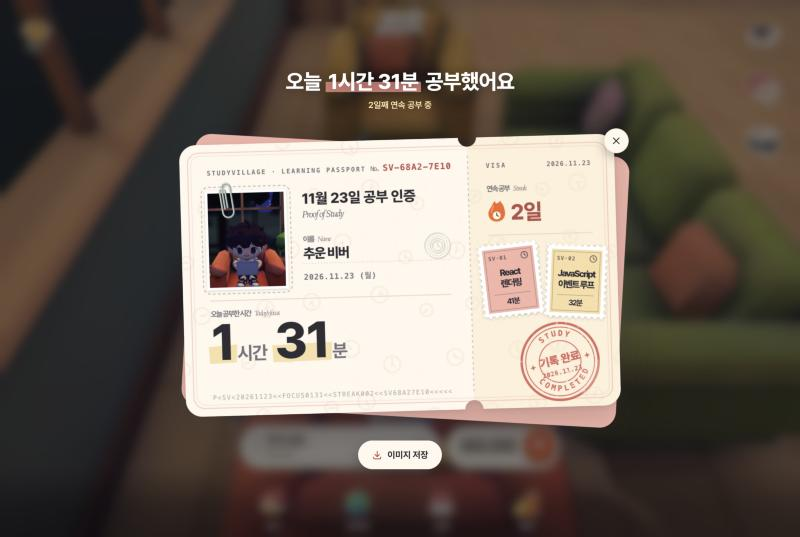
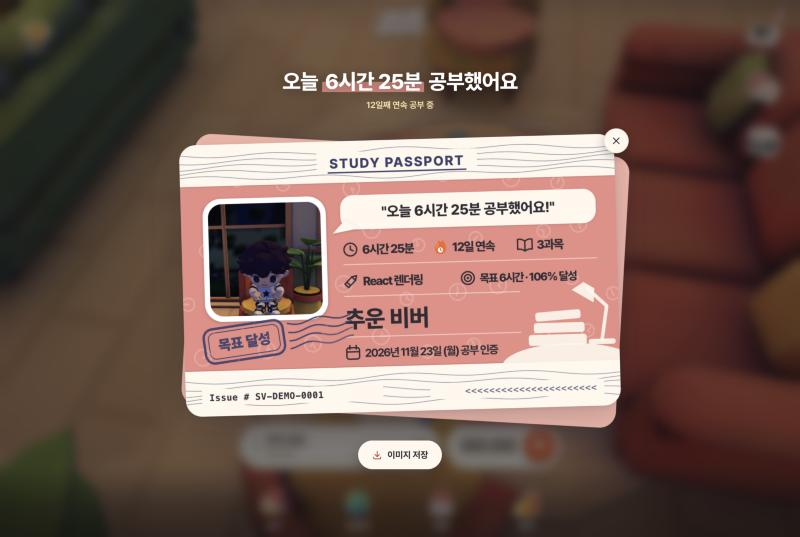
feat(web/study): add dev-only URLs that always show the study card
In dev builds, /?recap=goal, /?recap=more and /?recap=plain open the
study card with sample values once the 3D room is drawn, so the card can
be checked without finishing a session. Production builds ignore the
parameter (import.meta.env.DEV).

diff --git a/frontend/src/feature/study/recap/useRecapDemo.ts b/frontend/src/feature/study/recap/useRecapDemo.ts
@@ -1,0 +1,55 @@
+// 개발 전용: 공부를 끝내지 않고도 공부 인증 카드를 늘 띄워 보는 주소.
+//   /?recap=goal   목표 달성(목표 대비 %, "목표 달성" 소인, 연속 12일, 과목 3개)
+//   /?recap=more   목표 없음, 어제보다 더 함("어제보다 +n")
+//   /?recap=plain  목표 없음, 어제보다 적음, 연속 0일, 과목 없음 기록 하나
+// 값은 화면 확인용 표본이다(서버 값 아님). 운영 빌드(import.meta.env.DEV가 false)에서는 아무 일도 하지 않는다.
+// 사진은 3D 방이 그려진 뒤 실제로 찍는다(방이 준비될 때까지 기다린다).
+import { useEffect } from 'react'
+import { logger } from '../../../core/log/log'
+import { takeRoomSnapshot } from '../room3d/roomSnapshot'
+import { photoSlot } from './passportDraw'
+import type { StudyRecap } from './studyRecap'
+
+const log = logger('RecapDemo')
+
+type Variant = 'goal' | 'more' | 'plain'
+const variants: readonly Variant[] = ['goal', 'more', 'plain']
+
+function sample(variant: Variant, nickname: string, photo: HTMLCanvasElement | null): StudyRecap {
+  const today = new Date()
+  const studyDate = `${today.getFullYear()}-${String(today.getMonth() + 1).padStart(2, '0')}-${String(today.getDate()).padStart(2, '0')}`
+  const base = { nickname, studyDate, serial: 'SV-DEMO-0001', sessionSeconds: 5400, photo }
+  switch (variant) {
+    case 'goal':
+      return { ...base, todaySeconds: 6 * 3600 + 25 * 60, yesterdaySeconds: 4 * 3600, goalSeconds: 6 * 3600, streakDays: 12,
+        subjects: [{ subject: 'React 렌더링', seconds: 9600 }, { subject: 'JavaScript 이벤트 루프', seconds: 8100 }, { subject: '브라우저 렌더링 파이프라인', seconds: 5400 }] }
+    case 'more':
+      return { ...base, todaySeconds: 3 * 3600 + 10 * 60, yesterdaySeconds: 2 * 3600, goalSeconds: null, streakDays: 3,
+        subjects: [{ subject: '수학', seconds: 7200 }, { subject: '영어', seconds: 4200 }] }
+    case 'plain':
+      return { ...base, todaySeconds: 25 * 60, yesterdaySeconds: 3600, goalSeconds: null, streakDays: 0, subjects: [{ subject: null, seconds: 1500 }] }
+  }
+}
+
+/** 주소에 ?recap=…가 있으면 방이 준비된 뒤 표본 카드를 띄운다. */
+export function useRecapDemo(nickname: string | null, show: (recap: StudyRecap) => void): void {
+  useEffect(() => {
+    if (!import.meta.env.DEV || nickname == null) return
+    const value = new URLSearchParams(window.location.search).get('recap')
+    if (value == null) return
+    if (!variants.includes(value as Variant)) { log.warn('unknown recap demo', { value, known: variants.join('|') }); return }
+    const variant = value as Variant
+    const started = performance.now()
+    let timer = 0
+    const tryShow = () => {
+      const photo = takeRoomSnapshot(photoSlot.width * 2, photoSlot.height * 2)
+      // 방이 아직 안 그려졌으면 최대 15초까지 기다리고, 그래도 없으면 사진 칸 없이 띄운다.
+      if (!photo && performance.now() - started < 15_000) { timer = window.setTimeout(tryShow, 300); return }
+      log.debug('recap demo shown', { variant, photo: photo != null, elapsed_ms: Math.round(performance.now() - started) })
+      show(sample(variant, nickname, photo))
+    }
+    // 방이 막 그려진 순간엔 캐릭터가 아직 자리에 없을 수 있어 첫 촬영은 조금 늦춘다.
+    timer = window.setTimeout(tryShow, 2500)
+    return () => window.clearTimeout(timer)
+  }, [nickname, show])
+}

diff --git a/frontend/src/feature/study/shell/StudyHomePage.tsx b/frontend/src/feature/study/shell/StudyHomePage.tsx
@@ -20,6 +20,7 @@ import { useEffect, useRef, useState } from 'react'
 import { useSubjectEditor } from '../subject/useSubjectEditor'
 import { ChatSheet } from '../chat/ChatSheet'
 import { StudyRecapModal } from '../recap/StudyRecapModal'
+import { useRecapDemo } from '../recap/useRecapDemo'
 import { chatStore, useChat } from '../chat/chatStore'
 import s from './StudyHomePage.module.css'
 
@@ -41,6 +42,8 @@ export function StudyHomePage({ tab }: { tab: StudyTab }) {
   // 원본 기본 시점(initialRoomCamera = thirdPerson). 누를 때마다 다음 시점, 이름은 1600ms.
   const camera = useStudyCameraCycle('thirdPerson')
   const timer = useStudyTimer(state.status === 'signedIn' ? state.me.profile.nickname : null)
+  // 개발 전용: /?recap=goal|more|plain 으로 공부 인증 카드를 늘 띄워 본다(useRecapDemo).
+  useRecapDemo(tab === 'study' && state.status === 'signedIn' ? state.me.profile.nickname : null, timer.showRecap)
   const subjects = useSubjectEditor({ onManage: () => navigate('/subjects') })
   const chat = useChat()
   const [chatOpen, setChatOpen] = useState(false)

diff --git a/frontend/src/feature/study/timer/useStudyTimer.tsx b/frontend/src/feature/study/timer/useStudyTimer.tsx
@@ -111,5 +111,5 @@ export function useStudyTimer(nickname: string | null) {
     } catch (e) { failed(e) }
   }
 
-  return { view, onTogglePause, onFinish, recap, closeRecap: () => setRecap(null) }
+  return { view, onTogglePause, onFinish, recap, showRecap: setRecap, closeRecap: () => setRecap(null) }
 }

diff --git a/docs/design-parity/exceptions.md b/docs/design-parity/exceptions.md
@@ -22,6 +22,6 @@
 - **3D 방 부드러운 룩(기본)**: 셀 셰이딩 단 대신 넓은 감싸기 조명(빛 쪽 크림·그늘 쪽 라벤더)과 반구 조명, 화면 공간 접촉 그늘(½ 해상도 8탭, 높은 단계만), 그 자리 색을 어둡게 한 외곽선, 파스텔 보정(생기·부드러운 어깨·분할 톤). 예전 카툰 룩은 `?look=toon`, 앱 그림은 `?look=app`. 비교: `room_v2/soft_look_vs_toon.jpg`. 감성 보강(같은 날): 창밖 하늘에서 모은 빛줄기(½ 해상도 40탭, 높은 단계만), 먼 곳 공기 원근(위 하늘빛·아래 크림), 살구빛 할레이션, 오른쪽 위 빛샘, 비네트 0.18. `room_v2/mood_pass.jpg`(이전 / 오후 16시 / 밤). 개발 빌드는 `?hour=16`으로 시각을 고정해 본다. 사용자 결정(2026-11-23 "셰이더 대격변").
 - **3D 방 선명한 룩(기본, 같은 날 교체)**: 사용자 참고 이미지(게임 아트 거리)를 따라 따뜻한 해·푸른 그늘의 좁고 부드러운 조명 경계, 채도 +22%·S 곡선 대비, 그늘 푸름·빛 따뜻함 분할 톤, 푸른 접촉 그늘, 아주 옅은 색 외곽선, 공기·빛샘·빛줄기·그레인 없음, 비네트 0.12. 몽환 파스텔은 `?look=soft`. 비교: `room_v2/vivid_look.jpg`(soft 오후 / vivid 오후 / vivid 밤).
 - **3인칭 카메라 자유 조작**: 앱은 좌우로 끌어 내 자리 둘레만 돈다. 웹은 위아래로 끌어 내려다보는 각도(기본 30° ±, 5–80°)도 바꾸고, 휠·두 손가락 벌리기로 거리(0.65–2.2배)를 바꾸며, 두 번 누르면 기본 시점으로 돌아간다. 카메라는 천장(3.9m) 아래로 거리를 줄인다. 사용자 결정(2026-11-23).
-- **공부 요약("오늘의 공부 인증", 앱에 없는 화면)**: 스토리에 올려 "오늘 이만큼 공부했다"를 자랑하는 화면. 공부를 끝내면 흐린 공부방 위에 모달 틀 없이 자랑 문구("오늘 [n시간 n분] 공부했어요", 시간은 코랄 형광펜, 아래 "n일째 연속 공부 중")와 가로 여권이 뜬다. 여권의 주인공은 오늘 공부한 시간(숫자 크게·단위 작게·버터 형광펜)이고, 그 아래 자랑 칩(목표가 있으면 "목표 n · n% 달성", 없으면 어제보다 더 했을 때 "어제보다 +n"). 왼쪽 면 위에는 클립 꽂은 3D 방 사진·"n월 n일 공부 인증"·이름·공부일·엠보싱 문장, 세로 절취선 오른쪽 비자 면에는 연속 공부(불꽃 + n일)·과목 우표 2장·잉크 도장("목표 달성"/"기록 완료"). 닫기는 여권 모서리, 아래 "이미지 저장" 알약(파일 공유 지원 시 공유 단추). 저장 이미지(스토리 1080×1920)는 같은 문구·같은 여권. 들어오는 순서와 기울임은 움직임 줄이기면 끈다. 포커스는 안에서만 돌고 Esc·바깥으로 닫는다. 색은 사용자가 정한 문구용품 팔레트(아이보리 #FFF8ED·피치 #F6B5A9·버터 #F8DFA7·코랄 #E98D86·세이지 #A8BDA4·잉크 #302D35)를 이 화면에만 쓴다. 서버에 없는 값은 넣지 않는다. 캡처: `recap/passport_modal_desktop.jpg`, `recap/passport_story.png`. 사용자 결정(2026-11-23: 레퍼런스·디자인 프롬프트, 가로 여권, 겉 모달 없이, "여권이 아니라 오늘 이만큼 공부했다는 걸 증명하는 자랑용").
+- **공부 요약("오늘의 공부 인증", 앱에 없는 화면)**: 스토리에 올려 "오늘 이만큼 공부했다"를 자랑하는 화면. 공부를 끝내면 흐린 공부방 위에 모달 틀 없이 자랑 문구("오늘 [n시간 n분] 공부했어요", 아래 "n일째 연속 공부 중")와 가로 여권 카드가 뜬다. 카드는 사용자가 준 여권 카드 레퍼런스(2026-11-23) 구성을 따른다: 위 크림 띠(물결 무늬 줄 + "STUDY PASSPORT"), 가운데 코랄 띠(흰 테두리 정사각 3D 방 사진, 사진 왼쪽 아래에 걸친 남색 소인 "목표 달성"/"기록 완료", 말풍선 "오늘 n 공부했어요!", 아이콘 줄 시간·n일 연속·n과목 / 가장 많이 한 과목·목표 n% 달성 또는 어제보다 +n, 큰 이름, 날짜 공부 인증, 오른쪽 아래 크림색 스탠드·책 실루엣), 아래 크림 띠(Issue # 번호, 판독 기호). 레퍼런스 게임 고유의 나뭇잎 무늬·야자수 섬은 쓰지 않고 섬 시계 무늬와 공부 실루엣으로 바꿨다. 아이콘은 직접 그린 선 아이콘, 불꽃은 앱 StreakFlame 모양. 닫기는 카드 모서리, 아래 "이미지 저장" 알약(파일 공유 지원 시 공유 단추). 저장 이미지(스토리 1080×1920)는 같은 문구·같은 카드. 소인은 카드가 올라온 뒤 찍히고, 움직임 줄이기면 끈다. 색은 사용자가 정한 문구용품 팔레트(아이보리 #FFF8ED·피치 #F6B5A9·버터 #F8DFA7·코랄 #E98D86·잉크 #302D35)에 소인·물결용 남색 잉크 #3B3F6B. 서버에 없는 값은 넣지 않는다. 개발 빌드 전용 상시 확인 주소: `/?recap=goal`(목표 달성), `/?recap=more`(어제보다 더), `/?recap=plain`(목표·연속 없음) — 표본 값, 운영 빌드에서는 동작하지 않음(`recap/useRecapDemo.ts`). 캡처: `recap/passport_modal_desktop.jpg`(goal), `recap/passport_modal_plain.jpg`(plain). 사용자 결정(2026-11-23).
 - **공부방 태그·추천(앱에 없는 기능)**: 공부방 목록 맨 위에 "나와 같은 공부" 칸(밤하늘 위 흰 제목, 내 태그 알약, 오른쪽 "태그 수정" 섬 단추, 아래 같은 카드 2열). 내 태그가 없으면 같은 자리에 종이 카드 안내와 "태그 고르기" 햇살 단추. 겹치는 방이 없으면 빈 상태 그림 대신 한 줄 안내(방이 많아 보여야 해서 큰 빈 그림을 두지 않음). 카드에는 소개 아래 초록 `#태그` 한 줄. "내 공부 태그" 시트는 과목 고르기 시트(PaperSheet·턱 있는 알약 칩·둥근 입력칸)를 따르고, 고른 태그는 초록 알약. 문구는 `l10n/web_tags_ko.ts`(새로 씀). 검색 중에는 추천 칸을 숨긴다. 캡처: `tags/rooms_recommended_mobile.jpg`, `tags/my_tags_sheet.jpg`. 사용자 결정(2026-11-23, `docs/plan/study-tags.md`).
 - **월드 고정 하늘·가까운 면**: 앱은 하늘을 화면 한 장으로 그려 카메라를 돌려도 달·해가 화면에 붙어 있다. 웹은 카메라를 따라다니는 하늘 구(`three/skyDome.ts`)에 그려 달·해·별이 창문과 함께 움직이고(해·달은 자리들이 보는 쪽 하늘을 가로지름), 카메라 가까운 면을 0.1→0.3m, 먼 면을 80m로 바꿔 창틀·문틀·벽·그림 사이 깊이 경쟁을 줄였다. 사용자 버그 신고(2026-11-23).
